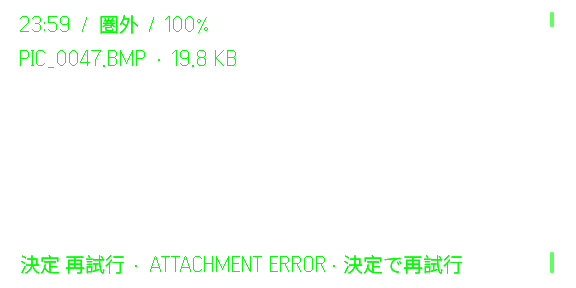
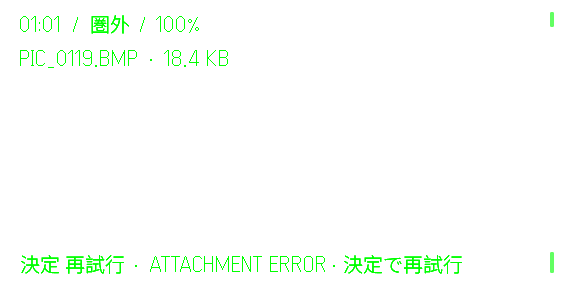
fix(no-service): align validation with revised story
Update release instructions and simulator retry expectations for the 20-node routes and first attachment, including refreshed retry evidence.

Changed region(s): [[0.0312, 0.0312, 0.3438, 0.125], [0.125, 0.1562, 0.25, 0.25], [0.2812, 0.1562, 0.4062, 0.25]]

diff --git a/docs/release-validation.md b/docs/release-validation.md
@@ -14,13 +14,13 @@
 
 ## 実機全27経路
 
-各3桁は、`choice_year`、`choice_proof`、`choice_connection`で選ぶ0始まりの候補indexである。各行で次を確認する。
+各3桁は、`choice_year`、`choice_safety`、`choice_final`で選ぶ0始まりの候補indexである。各行で次を確認する。
 
-- 14ノードで終端へ到達する。
+- 20ノードで終端へ到達する。
 - 選択直後のメールが選択内容へ固有に反応する。
-- 添付画像の人物、表情、折りたたみ携帯を判別できる。
-- 3桁目が0なら接続保存、1なら復元、2なら未知の差出人へ到達する。
-- 終端の決定入力で終了確認が表示される。
+- 通り、人物、献花、17台の回収端末という4添付を判別できる。
+- 3桁目が0なら読者保存、1なら予測欠損、2なら次の宛先へ到達する。
+- ENDの決定入力では表示を保持し、戻る操作で終了確認が表示される。
 
 | 選択列 | G2 | 終端 | 画像 | 終了 | 備考 |
 | --- | --- | --- | --- | --- | --- |
@@ -60,7 +60,7 @@
 | --- | --- | --- | --- |
 | HW-INPUT-G2 | G2で上下、決定を各3回行う | 1操作につき1移動または1確定。欠落、二重入力、逆方向なし | ☐ |
 | HW-INPUT-R1 | R1で同じ操作を行う | G2と同じノード列・選択結果になる | ☐ |
-| HW-LOCK | 添付ノードで電話をロックし、G2から決定する | 電話を開かず`mail_portrait`へ進む | ☐ |
+| HW-LOCK | 添付ノードで電話をロックし、G2から決定する | 電話を開かず次のメールへ進む | ☐ |
 | HW-IDLE | 選択画面で2分間操作せず、その後上下・決定する | 選択が1段だけ動き、選んだ返信へ進む | ☐ |
 | HW-RESTART | 添付ノードでEven Appを終了し、再起動する | `attachment_portrait`を復元し画像を再送する | ☐ |
 | HW-RETRY | `?evidenceCase=hardware-retry&failAttachmentOnce=1`で検証URLを開く | エラー表示後、決定で画像が出て次メールへ進める | ☐ |

diff --git a/docs/story.md b/docs/story.md
@@ -21,10 +21,14 @@
 
 ## ミナ
 
-**氏名:** 樋口ミナ  
-**年齢:** 19歳  
-**死亡日:** 2008年6月8日  
-**場所:** 秋葉原の架空の中古携帯店「リレイ」  
+**氏名:** 樋口ミナ
+
+**年齢:** 19歳
+
+**死亡日:** 2008年6月8日
+
+**場所:** 秋葉原の架空の中古携帯店「リレイ」
+
 **仕事:** 夜番。中古端末の初期化と棚卸し
 
 プレイヤーが読む「ミナ」の声は、17台の回収端末に残った下書き、送受信文、写真断片から`M-17`が合成したもの。ミナ本人が物語中のメールを書いた事実はない。
